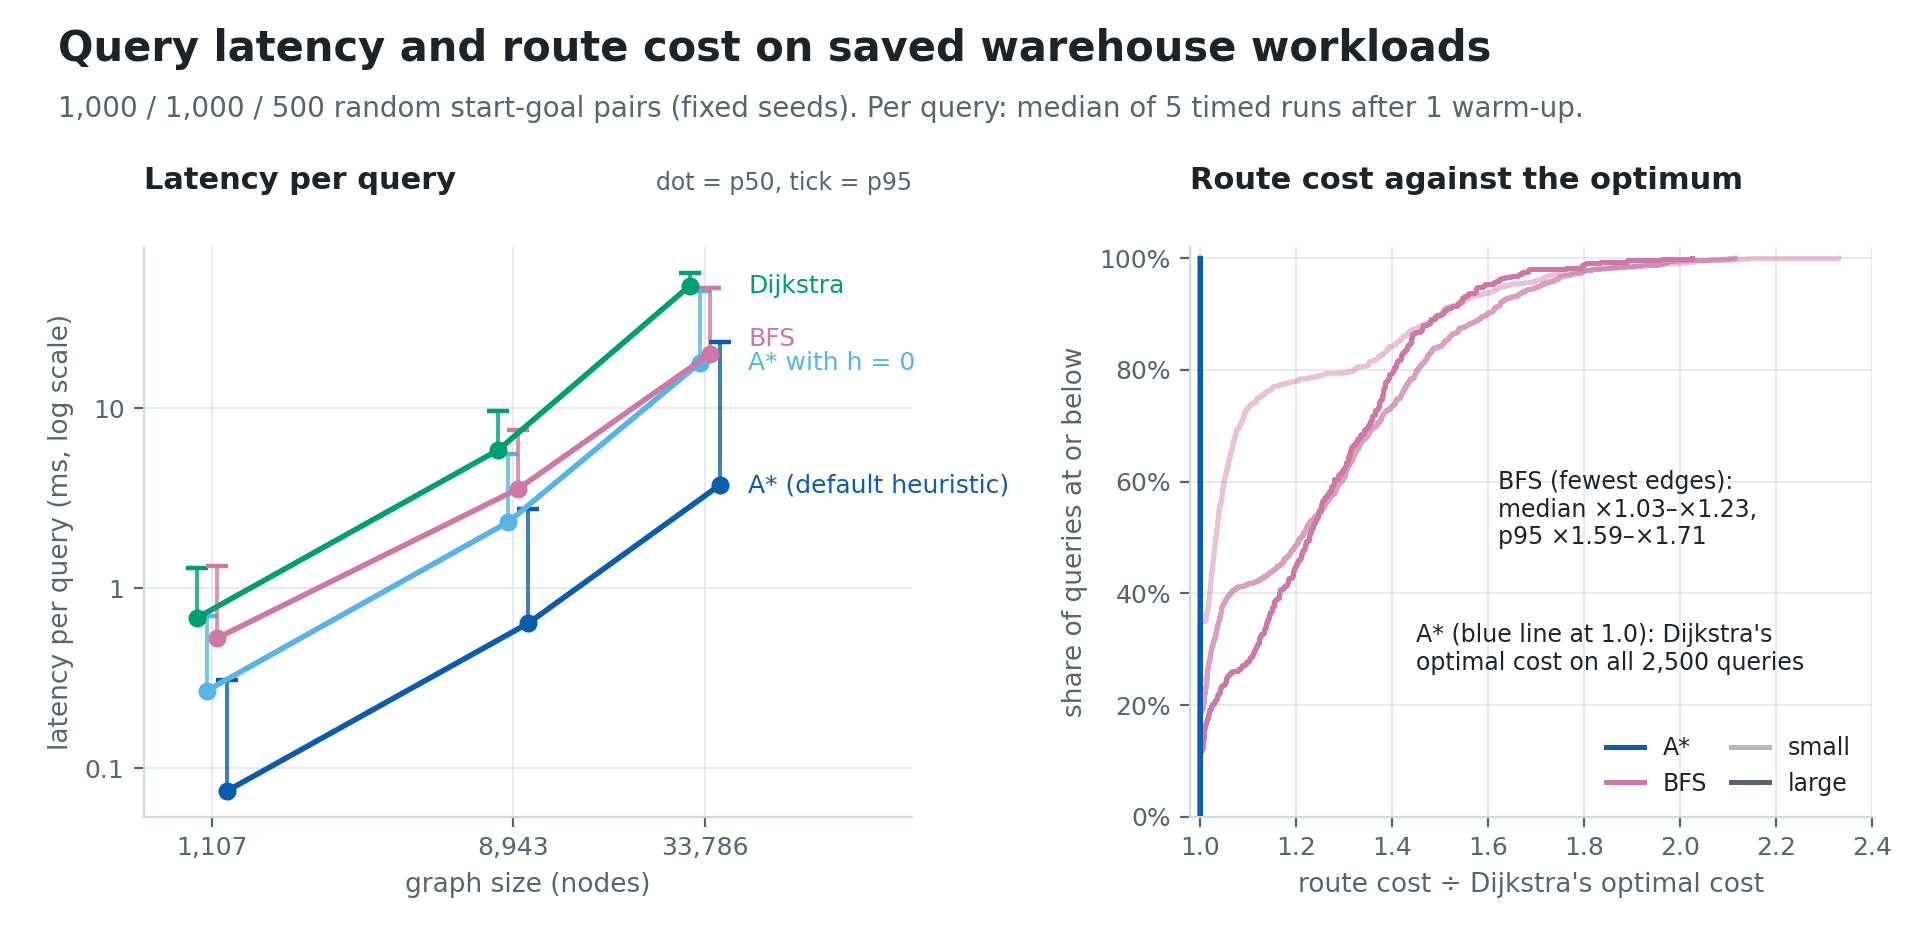
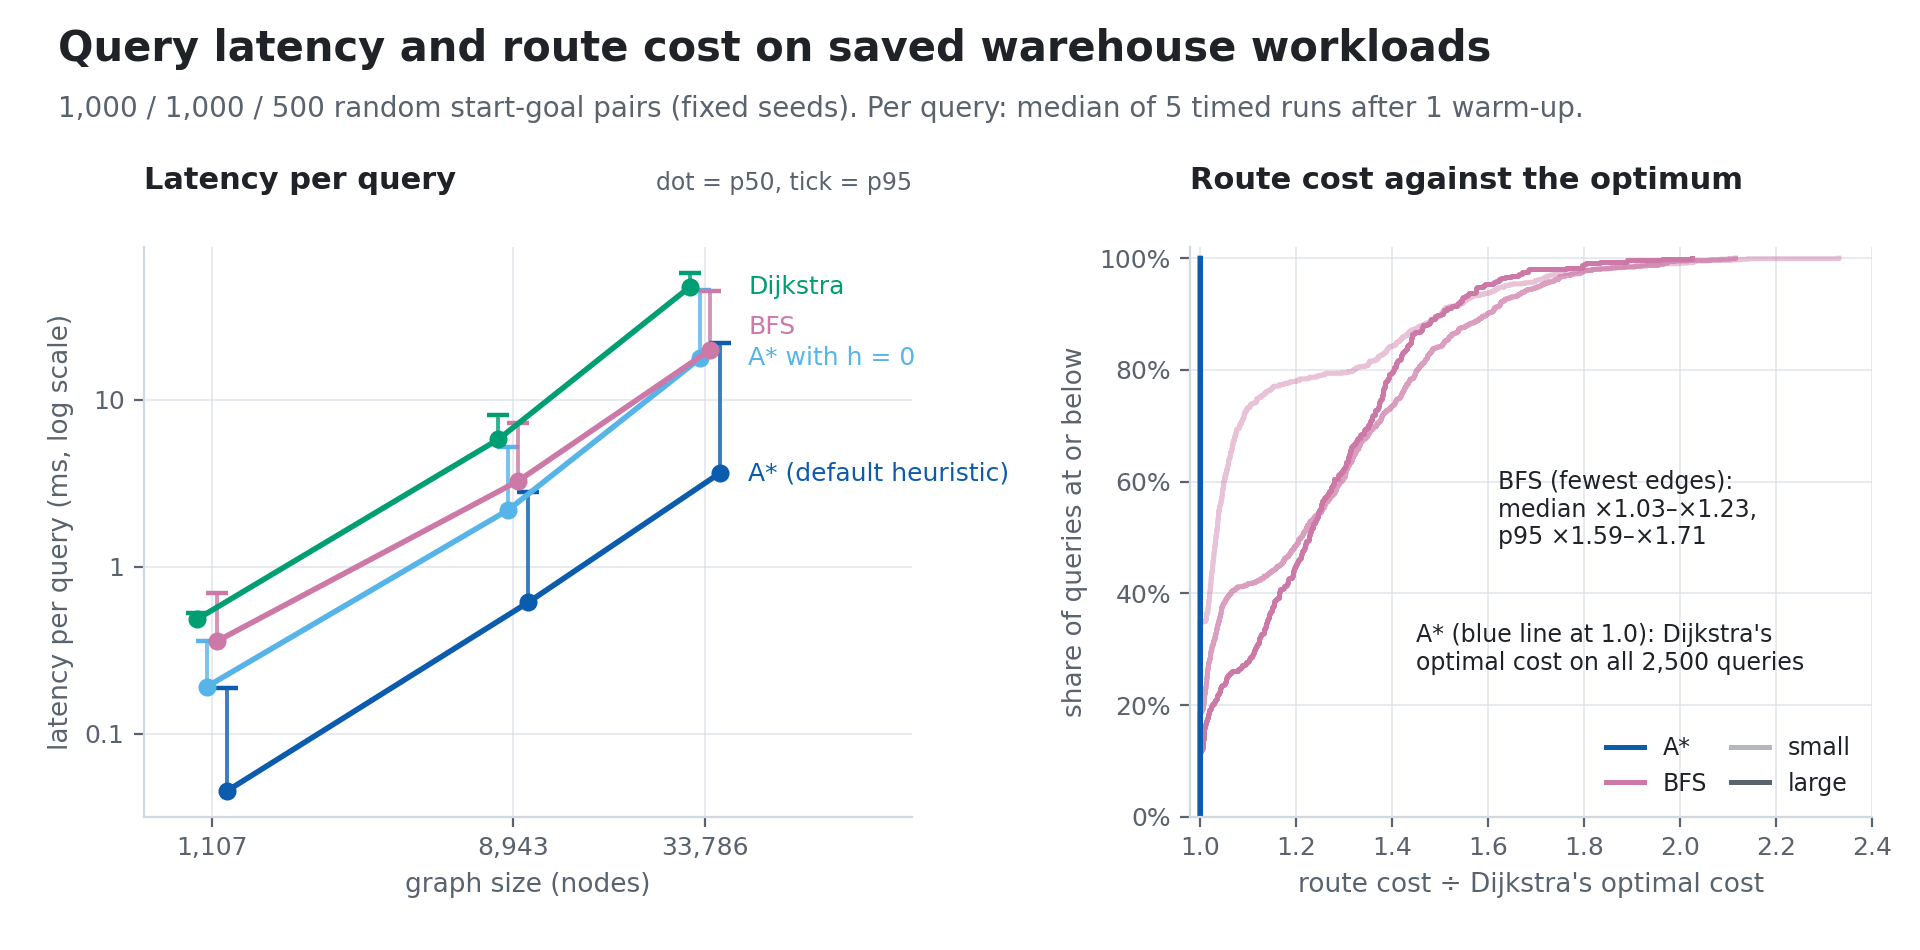
Redraw the latency figure from the run at 361f788 (light)
Redraw the replan-cost figure from the run at 361f788 (dark)

Redraw the replan-cost figure from the run at 361f788 (light)

List the history, checking and preview scripts in the evidence README

diff --git a/tools/evidence/README.md b/tools/evidence/README.md
@@ -1,30 +1,38 @@
 # tools/evidence
 
 Everything that turns the library's behaviour into the README's figures and numbers. Nothing here
-plans a route: the C++ tools call the library, and the Python scripts only summarise and draw what
-the C++ tools wrote.
+plans a route: the C++ tools call the library, and the Python scripts only summarise, draw and check
+what the C++ tools wrote.
 
 ```bash
 python -m pip install -r tools/evidence/requirements.txt
-python tools/evidence/regenerate.py              # build, export, benchmark, summarise, render, check
-python tools/evidence/regenerate.py --skip-bench # reuse the saved timings; about a minute
+python tools/evidence/regenerate.py              # build, export, benchmark, summarise, render, record, check
+python tools/evidence/regenerate.py --skip-bench # reuse the saved timings; about two minutes
 ```
 
 Run it from a shell with CMake, a generator (Ninja by default) and a C++17 compiler on `PATH`; on
 Windows, the *x64 Native Tools Command Prompt for VS* (add `--cxx cl`) or a shell with MSYS2 UCRT64
-`g++` first on `PATH` (add `--cxx g++`).
+`g++` first on `PATH` (add `--cxx g++`). Before timing, the benchmark waits up to 15 minutes for the
+machine's CPU load to fall to 10% (`--load-gate`, `--load-gate-timeout`, `--no-load-gate`); it records
+whether that happened.
 
 | File | Role |
 |---|---|
-| `evidence_export.cpp` | Trace mode. Runs the hero trip, the four-planner comparison and the failure cases; attaches `SearchObserver`; checks every route; writes `docs/data/*.json`. Also writes the seeded workloads. Times nothing. |
-| `evidence_bench.cpp` | Measurement mode. Times planner calls and replans on the saved workloads; no observer; `std::cout` silenced; writes raw CSV to `docs/data/bench/`. |
+| `evidence_export.cpp` | Trace mode. Runs the hero trip, the four-planner comparison and the failure cases; attaches `SearchObserver`; checks every route and the navigator's `BLOCKED` contract; writes `docs/data/*.json`. Also writes the seeded workloads. Times nothing. |
+| `evidence_bench.cpp` | Measurement mode. Times planner calls and replans on the saved workloads; no observer; `std::cout` silenced; records other processes' CPU load per command; writes raw CSV to `docs/data/bench/`. |
 | `evidence_common.*` | Scenario files, graph construction through `Graph::addNode`/`addEdge`, route checks, JSON writer. |
 | `scenarios/` | The README's scenario files and their [format](scenarios/README.md). |
-| `summarize.py` | Percentiles and headline numbers from the raw files, to `docs/data/summary.json`. |
+| `summarize.py` | Percentiles, variability and headline numbers from the raw files, to `docs/data/summary.json`. |
 | `render/` | matplotlib and Pillow drawing code, light and dark variants, to `docs/assets/`. |
 | `provenance.py` | `docs/data/manifest.json`: source revision and dirty-state id, compiler and flags, machine, output hashes. |
-| `check_outputs.py` | Re-checks routes against the exported graph by plain arithmetic, the workload fingerprints, A\*'s cost against Dijkstra's on every benchmark query and replan, each A\* miss recorded before the open-list fix (`docs/data/astar_fix_before.json`), and every number the README quotes. |
+| `history.py` | The load gate, and the run history in `docs/data/history/` with its selection rule. |
+| `check_outputs.py` | Re-checks routes against the exported graph by plain arithmetic, the workload fingerprints, A\*'s cost against Dijkstra's on every benchmark query and replan, each A\* miss recorded before the open-list fix (`docs/data/astar_fix_before.json`), the failure states, the run history, and every number and link in the README. Standard library only. |
+| `test_check_outputs.py` | Mutation test: corrupts a copy of the evidence six ways and requires `check_outputs.py` to fail on each. |
+| `compare_traces.py` | Reruns `evidence_export` and requires the committed traces back exactly. |
+| `compare_bench.py` | Paired per-query latency ratios between two benchmark runs (used for the validation runs in `docs/EVIDENCE.md`). |
+| `preview_readme.py` | Renders `README.md` to a local page styled like GitHub's, for checking layout and light/dark images. |
 | `regenerate.py` | Runs the stages in order. |
 
-How the measurements are taken, what each file contains and which figure comes from which data:
-[docs/EVIDENCE.md](../../docs/EVIDENCE.md).
+CI runs `check_outputs.py`, `test_check_outputs.py` and `compare_traces.py` on every push, and never
+the benchmark. How the measurements are taken, what each file contains and which figure comes from
+which data: [docs/EVIDENCE.md](../../docs/EVIDENCE.md).
